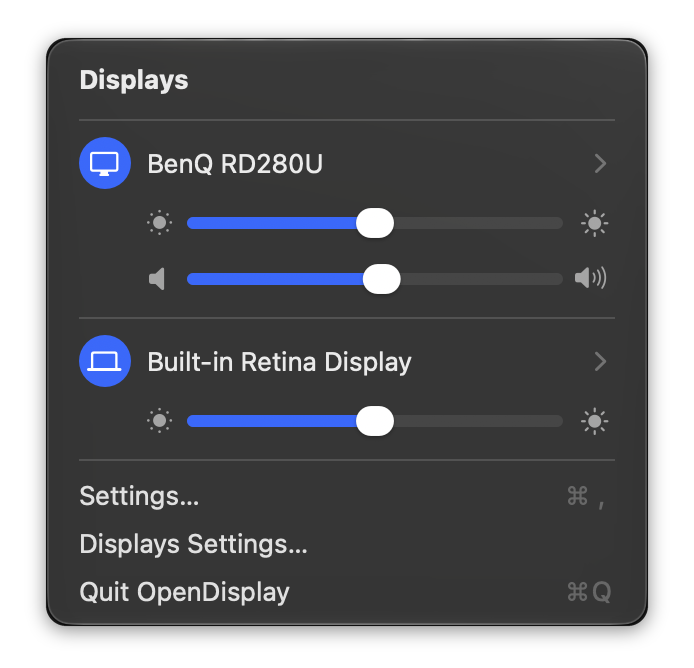
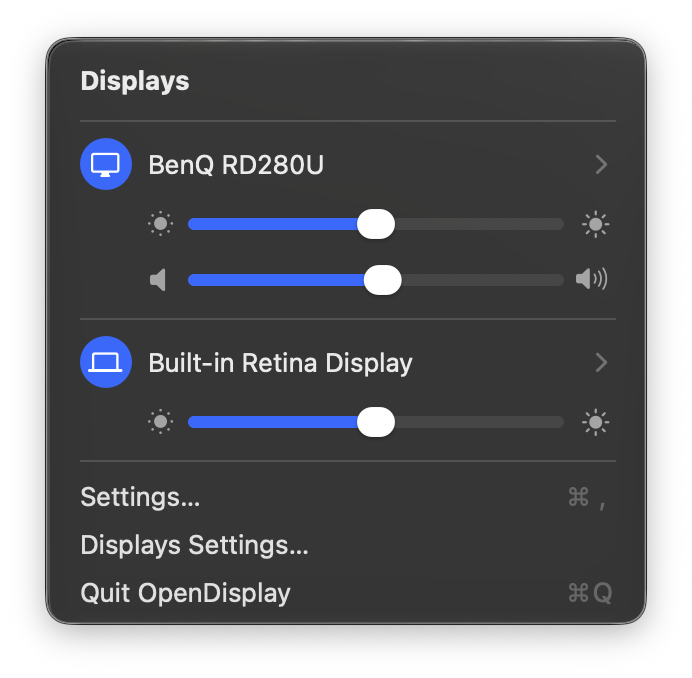
Use the system margins and shadow in menu screenshots
The script now captures the open menu twice: as a window (the system
margins, shadow, and corners, but gray glass) and as the screen area over
the backdrop (the right glass). compose-menu.py puts the inside of the
second in the first, so only the glass is replaced.

diff --git a/scripts/compose-menu.py b/scripts/compose-menu.py
@@ -1,0 +1,37 @@
+#!/usr/bin/env python3
+"""Make a menu screenshot with the system margins and shadow, and the right glass.
+
+    compose-menu.py WINDOW AREA DEST SCALE
+
+WINDOW is a window capture of the menu (screencapture -l): it has the system margins, shadow, and rounded corners,
+with a transparent background. But the menu is glass, and a window capture has nothing behind the glass, so the
+inside of the menu is gray.
+
+AREA is a capture of the screen area around the same menu (40 pt to the left, 30 pt above it), over a plain
+backdrop: there the glass looks right.
+
+DEST gets WINDOW with the inside of the menu from AREA. SCALE is the backing scale (2 on Retina displays).
+
+Needs Pillow: pip3 install pillow
+"""
+import sys
+
+from PIL import Image
+
+window_path, area_path, dest, scale = sys.argv[1], sys.argv[2], sys.argv[3], int(sys.argv[4])
+
+window = Image.open(window_path).convert("RGBA")
+area = Image.open(area_path).convert("RGBA")
+
+# The menu in the window capture: its opaque pixels. (The shadow around it is partly transparent.)
+alpha = window.split()[3]
+opaque = alpha.point(lambda a: 255 if a >= 250 else 0)
+left, top, right, bottom = opaque.getbbox()
+
+# The same menu in the area capture: 40 x 30 pt from its top left corner.
+x, y = round(40 * scale), round(30 * scale)
+inside = area.crop((x, y, x + right - left, y + bottom - top))
+
+# Replace only the opaque pixels, so the system's rounded corners, outline, and shadow stay.
+window.paste(inside, (left, top), opaque.crop((left, top, right, bottom)))
+window.save(dest)
